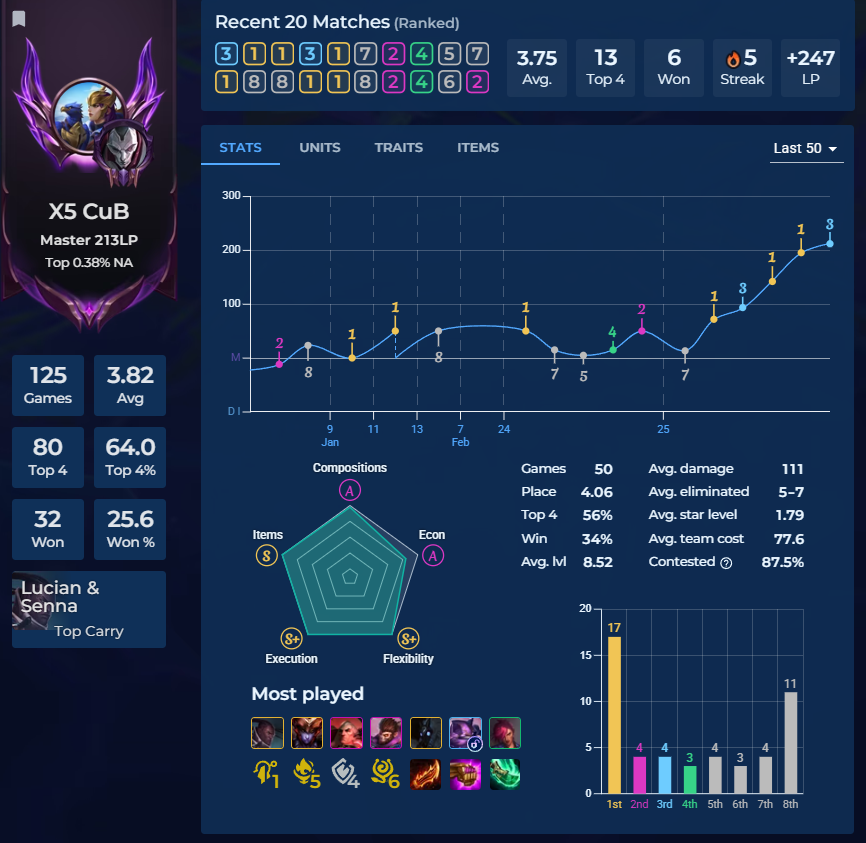
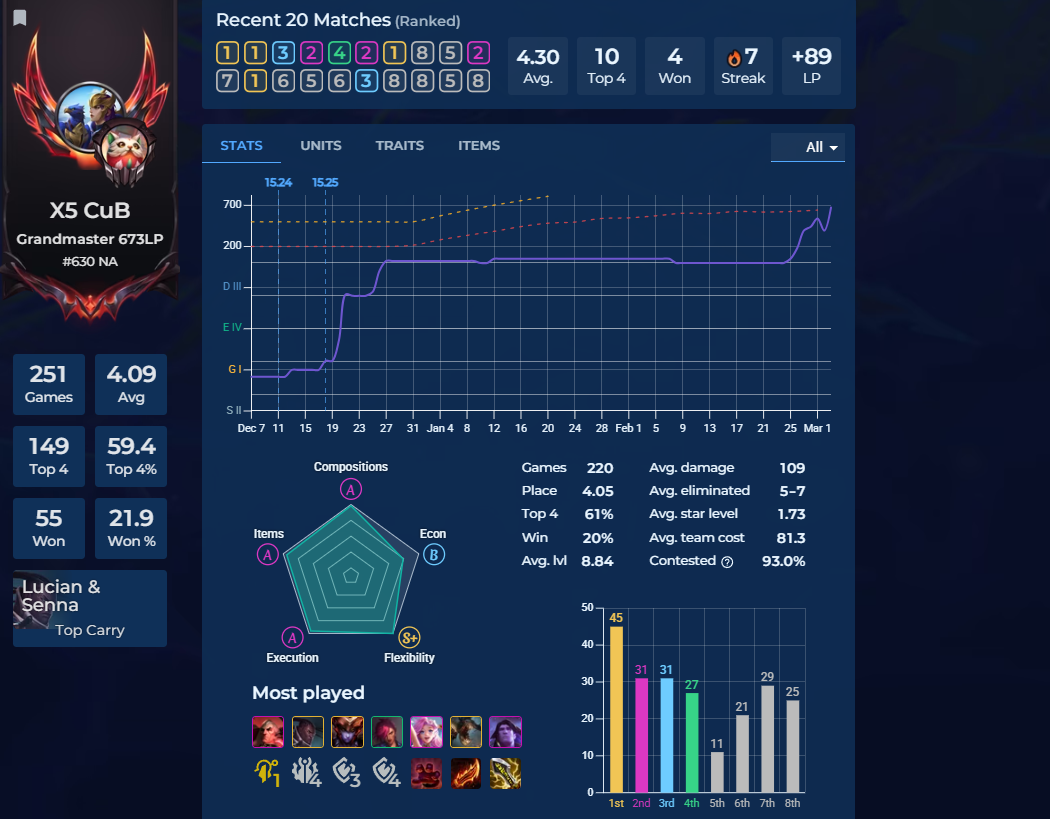
ok

diff --git a/scripts/data.js b/scripts/data.js
@@ -41,9 +41,9 @@ const SLUG_MAP = {
 const MEMBERS = [
   { name: 'Yun', tier: 'Master', division: null, lp: 94 },
   { name: 'Su', tier: 'Master', division: null, lp: 124 },
-  { name: 'Xệ', tier: 'Challenger', division: null, lp: 2190 },
+  { name: 'Xệ', tier: 'Master', division: null, lp: 0 },
   { name: 'Hycan', tier: 'Master', division: null, lp: 0 },
-  { name: 'a Tứn', tier: 'Master', division: null, lp: 219 },
+  { name: 'a Tứn', tier: 'Grandmaster', division: null, lp: 673 },
   { name: 'Kua', tier: 'Master', division: null, lp: 0 },
   { name: 'Cupid', tier: 'Diamond', division: 'III', lp: 16 },
   { name: 'bánh mỳ', tier: 'Diamond', division: 'IV', lp: 10 },
@@ -61,7 +61,7 @@ const LOL_MEMBERS = [
   { name: 'a Tứn', soloTier: 'Platinum', soloDivision: 'III', soloLp: 24, flexTier: 'Gold', flexDivision: 'I', flexLp: 99 },
   { name: 'Hycan', soloTier: 'Emerald', soloDivision: 'IV', soloLp: 74, flexTier: 'Diamond', flexDivision: 'IV', flexLp: 34 },
   { name: 'Kua', soloTier: 'Master', soloDivision: null, soloLp: 97, flexTier: 'Master', flexDivision: null, flexLp: 8 },
-  { name: 'Xệ', soloTier: 'Challenger', soloDivision: null, soloLp: 2153, flexTier: 'Challenger', flexDivision: 'null', flexLp: 2132 },
+  { name: 'Xệ', soloTier: 'Master', soloDivision: null, soloLp: 0, flexTier: 'Emerald', flexDivision: '1', flexLp: 17 },
   { name: 'Cupid', soloTier: 'Emerald', soloDivision: 'I', soloLp: 40, flexTier: 'Diamond', flexDivision: 'I', flexLp: 33 },
   { name: 'bánh mỳ', soloTier: 'Master', soloDivision: null, soloLp: 423, flexTier: 'Master', flexDivision: null, flexLp: 114 },
   { name: 'Zibi', soloTier: 'Gold', soloDivision: 'III', soloLp: 84, flexTier: 'Gold', flexDivision: 'II', flexLp: 69 },

diff --git a/index.html b/index.html
@@ -58,7 +58,7 @@
           <div class="gallery-caption">Caption 2</div>
         </div>
         <div class="gallery-item">
-          <img src="assets/gallery/tuan-photo.jpg" alt="Group photo 3">
+          <img src="assets/gallery/photo3.jpg" alt="Group photo 3">
           <div class="gallery-caption">Caption 3</div>
         </div>
         <div class="gallery-item">
